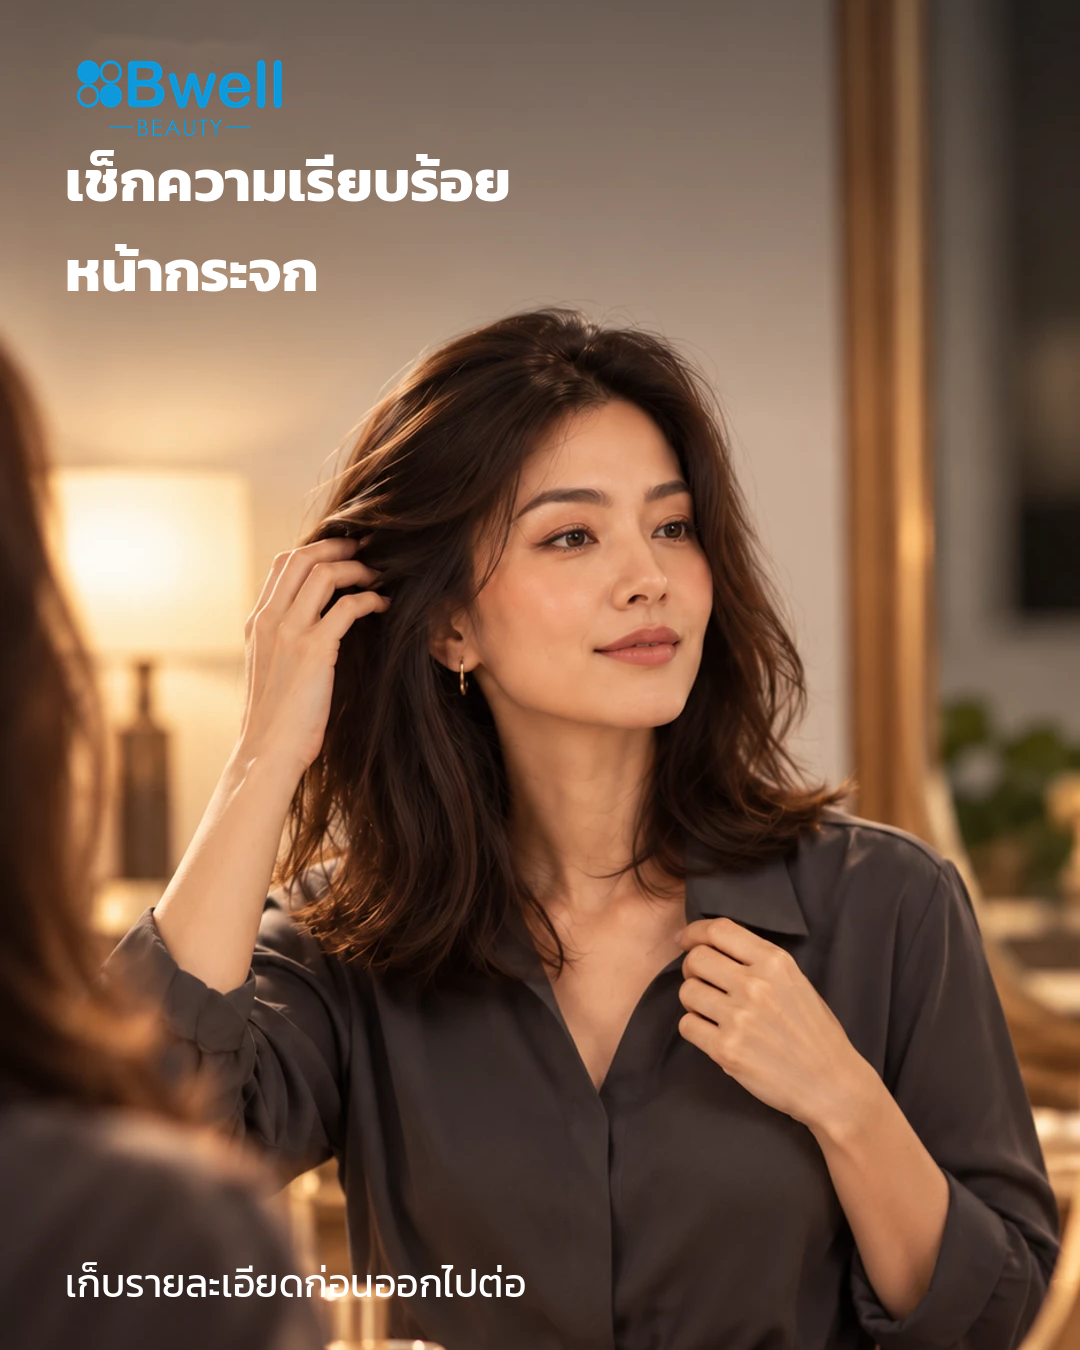
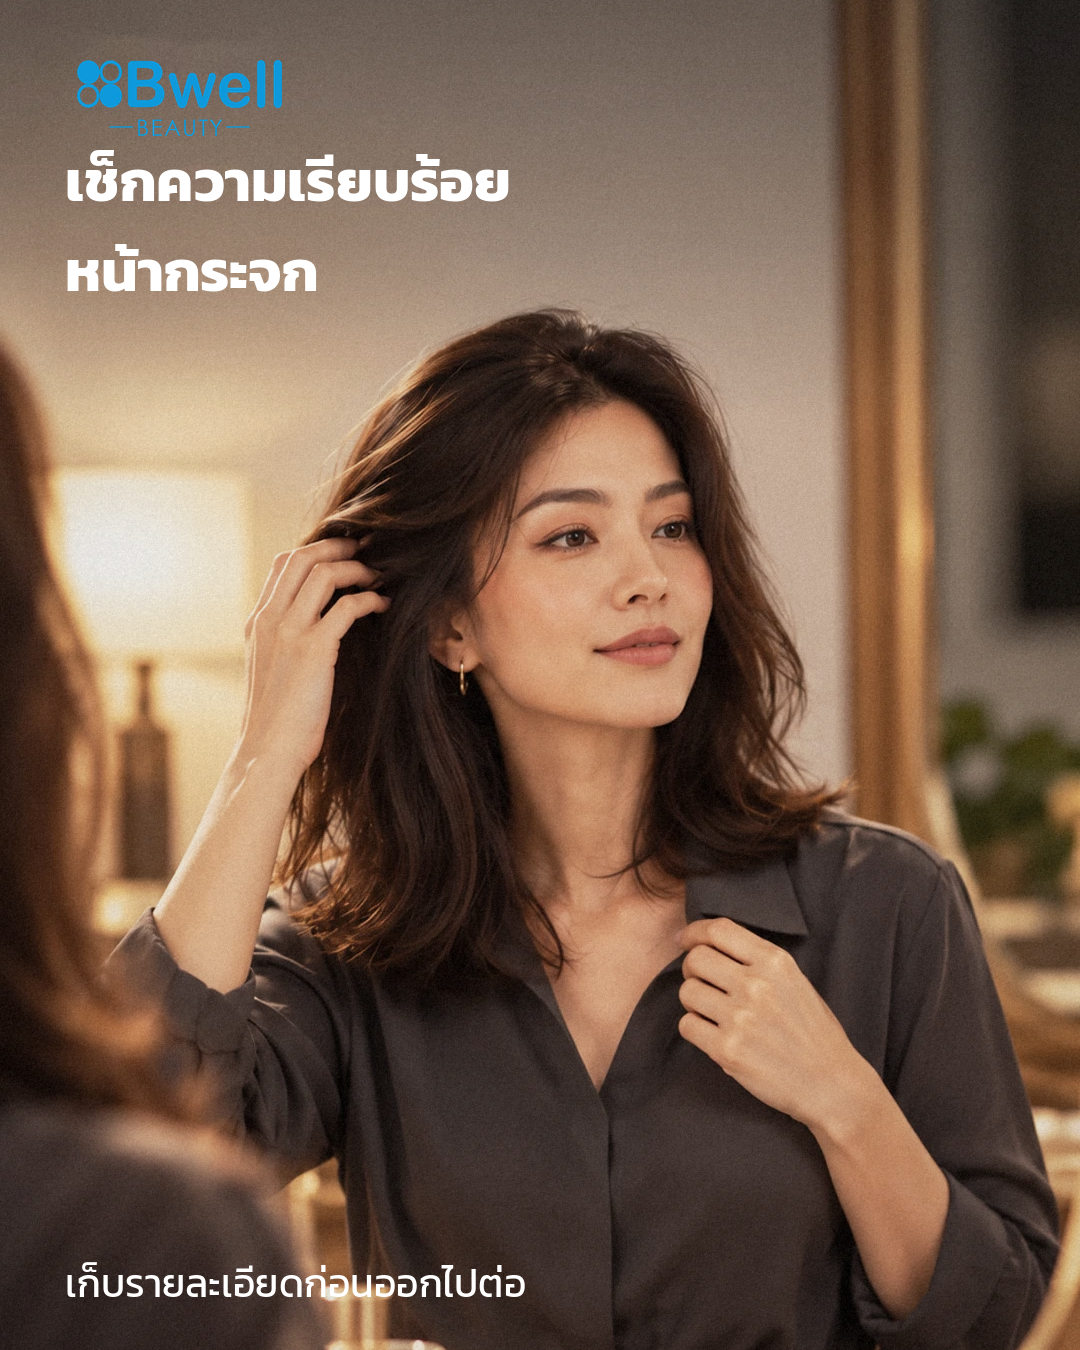
BSL-01 story set v3: real packshot seated on table in frame 4, photographic finish on all frames
Claude-Session: https://claude.ai/code/session_01U9xunoAWqhsrTwzprvRexa

diff --git a/content/bsl-01-story/scripts/p4.py b/content/bsl-01-story/scripts/p4.py
@@ -1,0 +1,43 @@
+# Frame 4: replace pasted product with the real BSL-01 packshot and seat it on the table
+import cv2,numpy as np
+from PIL import Image
+im=cv2.imread('c4.png'); hsv=cv2.cvtColor(im,cv2.COLOR_BGR2HSV); H,S=hsv[...,0].astype(int),hsv[...,1].astype(int)
+raw=np.zeros(im.shape[:2],np.uint8); raw[1500:1770,85:1080]=(~((H>=5)&(H<=28)&(S>95)))[1500:1770,85:1080]*255
+raw=cv2.morphologyEx(raw,cv2.MORPH_OPEN,np.ones((3,3),np.uint8))
+n,l,st,_=cv2.connectedComponentsWithStats(raw); k=1+np.argmax(st[1:,4]); raw=np.where(l==k,255,0).astype(np.uint8)
+hole=cv2.dilate(cv2.morphologyEx(raw,cv2.MORPH_CLOSE,np.ones((15,15),np.uint8)),np.ones((9,9),np.uint8)); V=hsv[...,2].astype(int); dk=np.zeros_like(hole); dk[1490:1758,85:460]=((V<95)|(S<60))[1490:1758,85:460]*255
+hole=cv2.bitwise_or(hole,cv2.dilate(dk,np.ones((7,7),np.uint8))); hole[:,905:]=0
+plate=cv2.inpaint(im,hole,15,cv2.INPAINT_TELEA)
+# wood grain is horizontal: smooth inpaint along x only, then add grain noise so it is not smeary
+sm=cv2.GaussianBlur(plate,(61,1),0); hm=cv2.GaussianBlur(hole,(0,0),4).astype(np.float32)[...,None]/255
+plate=(plate*(1-hm)+sm*hm).astype(np.uint8)
+# product from packshot (front view laid flat; perspective squash across the width)
+p=Image.open('bsl01_hq.png').convert('RGBA'); p=p.crop((0,0,p.width,1505)).convert('RGBa')
+L=830; s=L/1505; p=p.resize((round(p.width*s*0.80),L),Image.LANCZOS).rotate(83,resample=Image.BICUBIC,expand=True).convert('RGBA')
+P=np.array(p).astype(np.float32)/255; rgb=P[...,:3][...,::-1].copy(); a=P[...,3]
+ys,xs=np.where(a>0.5); ox,oy=92-xs.min(), 1600-int(np.median(ys[xs<xs.min()+8]))
+# warm ambient grade, softer contrast, lamp light from the left, slight lens softness
+rgb=rgb*np.array([0.86,0.97,1.06],np.float32); rgb=0.90*rgb+0.045
+rgb=rgb*np.linspace(1.08,0.90,rgb.shape[1],dtype=np.float32)[None,:,None]
+rgb=cv2.GaussianBlur(rgb,(0,0),0.7)
+f=plate.astype(np.float32)/255; Hh,Ww=f.shape[:2]
+A=np.zeros((Hh,Ww),np.float32); C=np.zeros_like(f)
+ph,pw=a.shape; A[oy:oy+ph,ox:ox+pw]=a[:Hh-oy,:Ww-ox][:ph,:pw]; C[oy:oy+ph,ox:ox+pw]=rgb[:Hh-oy,:Ww-ox][:ph,:pw]
+solid=(cv2.morphologyEx((A>0.5).astype(np.uint8)*255,cv2.MORPH_CLOSE,np.ones((9,9),np.uint8)))
+solid=cv2.morphologyEx(solid,cv2.MORPH_OPEN,np.ones((7,7),np.uint8))
+# reflection on lacquered wood
+refl=np.zeros_like(f); ra=np.zeros((Hh,Ww),np.float32)
+for x in np.where(solid.any(0))[0]:
+    c=np.where(solid[:,x]>0)[0]; yb=c.max(); Lr=min(60,yb-c.min())
+    d=np.arange(1,Lr); d=d[yb+d<Hh]
+    refl[yb+d,x]=C[yb-d,x]; ra[yb+d,x]=A[yb-d,x]*0.20*(1-d/Lr)**1.6
+refl=cv2.GaussianBlur(refl,(0,0),2.5); ra=cv2.GaussianBlur(ra,(0,0),2.5)[...,None]
+f=f*(1-ra)+refl*ra
+# contact shadow: occlusion + soft falloff (light from upper left)
+sh=np.zeros((Hh,Ww),np.float32)
+for dy,dx,b,op in ((3,3,3,0.85),(12,10,14,0.45),(28,22,38,0.28)):
+    s_=cv2.warpAffine(solid,np.float32([[1,0,dx],[0,1,dy]]),(Ww,Hh)).astype(np.float32)/255
+    sh=np.maximum(sh,cv2.GaussianBlur(s_,(0,0),b)*op)
+f=f*(1-sh[...,None]*0.85)
+A3=A[...,None]; out=f*(1-A3)+C*A3
+cv2.imwrite('c4r.png',np.clip(out*255,0,255).astype(np.uint8))

diff --git a/content/bsl-01-story/scripts/build.py b/content/bsl-01-story/scripts/build.py
@@ -29,23 +29,32 @@ def product(bg,H,x_off,y):
     x=(bg.width-p.width)//2+x_off
     sh=Image.new('RGBA',p.size,(0,0,0,0)); sh.putalpha(p.split()[3].point(lambda v:int(v*0.5))); sh=sh.filter(ImageFilter.GaussianBlur(28))
     bg.alpha_composite(sh,(x+35,y+40)); bg.alpha_composite(p,(x,y)); return bg
+def finish(im,seed):
+    # photographic finish so the scene reads as a camera photo: softer saturation, highlight roll-off, vignette, luma grain
+    a=np.asarray(im.convert('RGB')).astype(np.float32)/255; h,w=a.shape[:2]
+    g=a.mean(2,keepdims=True); a=g+(a-g)*0.90
+    a=np.where(a>0.75,0.75+(a-0.75)*0.7,a); a=0.015+a*0.985
+    yy,xx=np.mgrid[0:h,0:w]; r=np.hypot((xx-w/2)/(w/2),(yy-h/2)/(h/2)); a=a*(1-0.10*np.clip(r-0.55,0,1)[...,None]**1.5)
+    n=np.random.default_rng(seed).normal(0,1,(h,w)).astype(np.float32); n=(n+np.roll(n,1,0)*0.35+np.roll(n,1,1)*0.35)/1.3
+    a=a+n[...,None]*0.016
+    return Image.fromarray(np.clip(a*255,0,255).astype(np.uint8)).convert('RGBA')
 out={}
 for i in (1,2,3,4):
     # 9:16
     if i==2: base=product(Image.open(f'{D}/bg2.png').convert('RGBA'),1300,110,380)
-    else: base=Image.open(f'{D}/c{i}.png').convert('RGBA')
-    out[(i,'916')]=overlay(base.copy(),i,70,199,1782)
+    else: base=Image.open(f'{D}/'+('c4r.png' if i==4 else f'c{i}.png')).convert('RGBA')
+    out[(i,'916')]=overlay(finish(base,i),i,70,199,1782)
     # 4:5
     if i==2:
         bg=Image.open(f'{D}/bg2.png').convert('RGBA').crop((0,330,1080,1680))
         b45=product(bg,960,190,300)
     elif i==4:
-        src=Image.open(f'{D}/c4.png').convert('RGBA').crop((0,140,1080,1840)); sc=1350/1700
+        src=Image.open(f'{D}/c4r.png').convert('RGBA').crop((0,140,1080,1840)); sc=1350/1700
         fg=src.resize((round(1080*sc),1350),Image.LANCZOS)
         b45=src.resize((1080,1350)).filter(ImageFilter.GaussianBlur(30)); m=Image.new('L',fg.size,255); import numpy as _n; ma=_n.array(m).astype(float); ma[:,:120]*=_n.linspace(0,1,120)[None,:]; fg.putalpha(Image.fromarray(ma.astype('uint8'))); b45.alpha_composite(fg,(1080-fg.width,0))
     else:
         y0={1:150,3:60}[i]; b45=Image.open(f'{D}/c{i}.png').convert('RGBA').crop((0,y0,1080,y0+1350))
-    out[(i,'45')]=overlay(b45,i,60,150,1262)
+    out[(i,'45')]=overlay(finish(b45,10+i),i,60,150,1262)
 import os; os.makedirs(f'{D}/out',exist_ok=True)
 for (i,k),im in out.items(): im.convert('RGB').save(f'{D}/out/BSL-01_set_{i}_{"9x16" if k=="916" else "4x5"}.png')
 ims=[out[(i,'916')].convert('RGB').resize((270,480)) for i in (1,2,3,4)]

diff --git a/content/bsl-01-story/scripts/recut.py b/content/bsl-01-story/scripts/recut.py
@@ -1,0 +1,14 @@
+import cv2,numpy as np
+im=cv2.imread('b1.jpg').astype(np.float32); mn=im.min(2)
+near=(mn>238).astype(np.uint8)
+ff=near.copy(); h,w=ff.shape; mask=np.zeros((h+2,w+2),np.uint8)
+for pt in ((0,0),(w-1,0),(0,h-1),(w-1,h-1)): cv2.floodFill(ff,mask,pt,2)
+bg=(ff==2)
+soft=np.clip((250-mn)/45,0,1)
+a=np.where(bg,soft,1.0).astype(np.float32)
+# within bg band, unpremultiply against white to kill the fringe
+a3=np.maximum(a,1e-3)[...,None]; col=np.clip((im-(1-a3)*255)/a3,0,255)
+col=np.where(a3>0.02,col,0)
+ys,xs=np.where(a>0.1); x0,x1,y0,y1=xs.min(),xs.max(),ys.min(),ys.max(); print(x0,y0,x1,y1)
+out=np.dstack([col,a*255]).astype(np.uint8)[y0:y1+1,x0:x1+1]
+cv2.imwrite('bsl01_hq.png',out)
